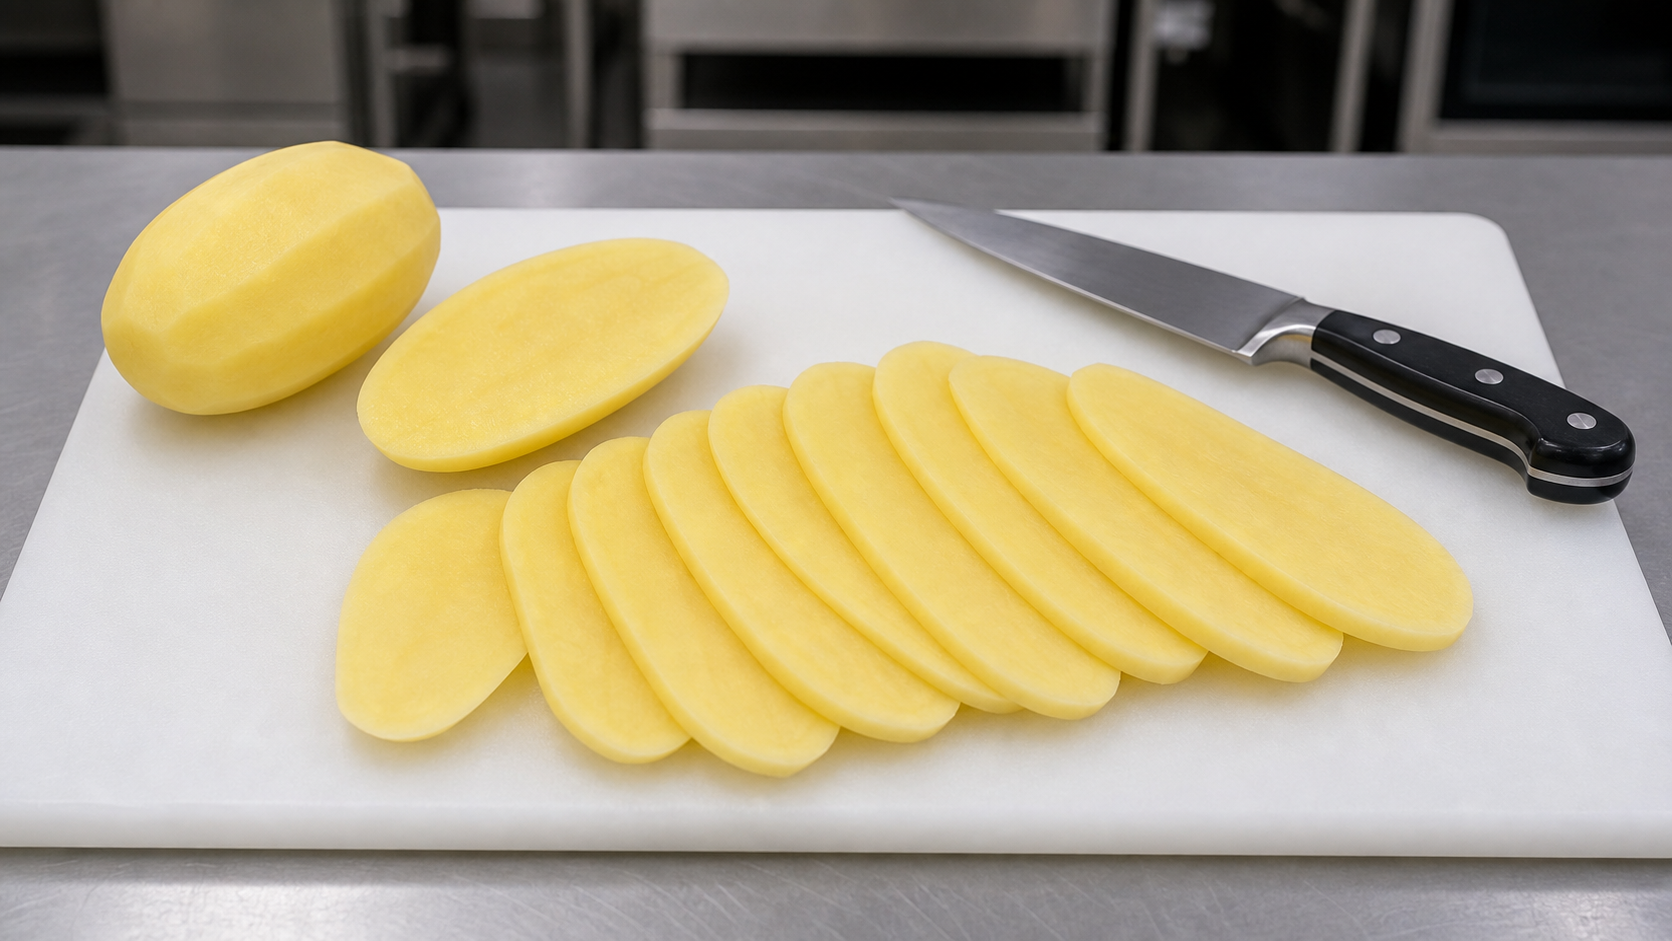
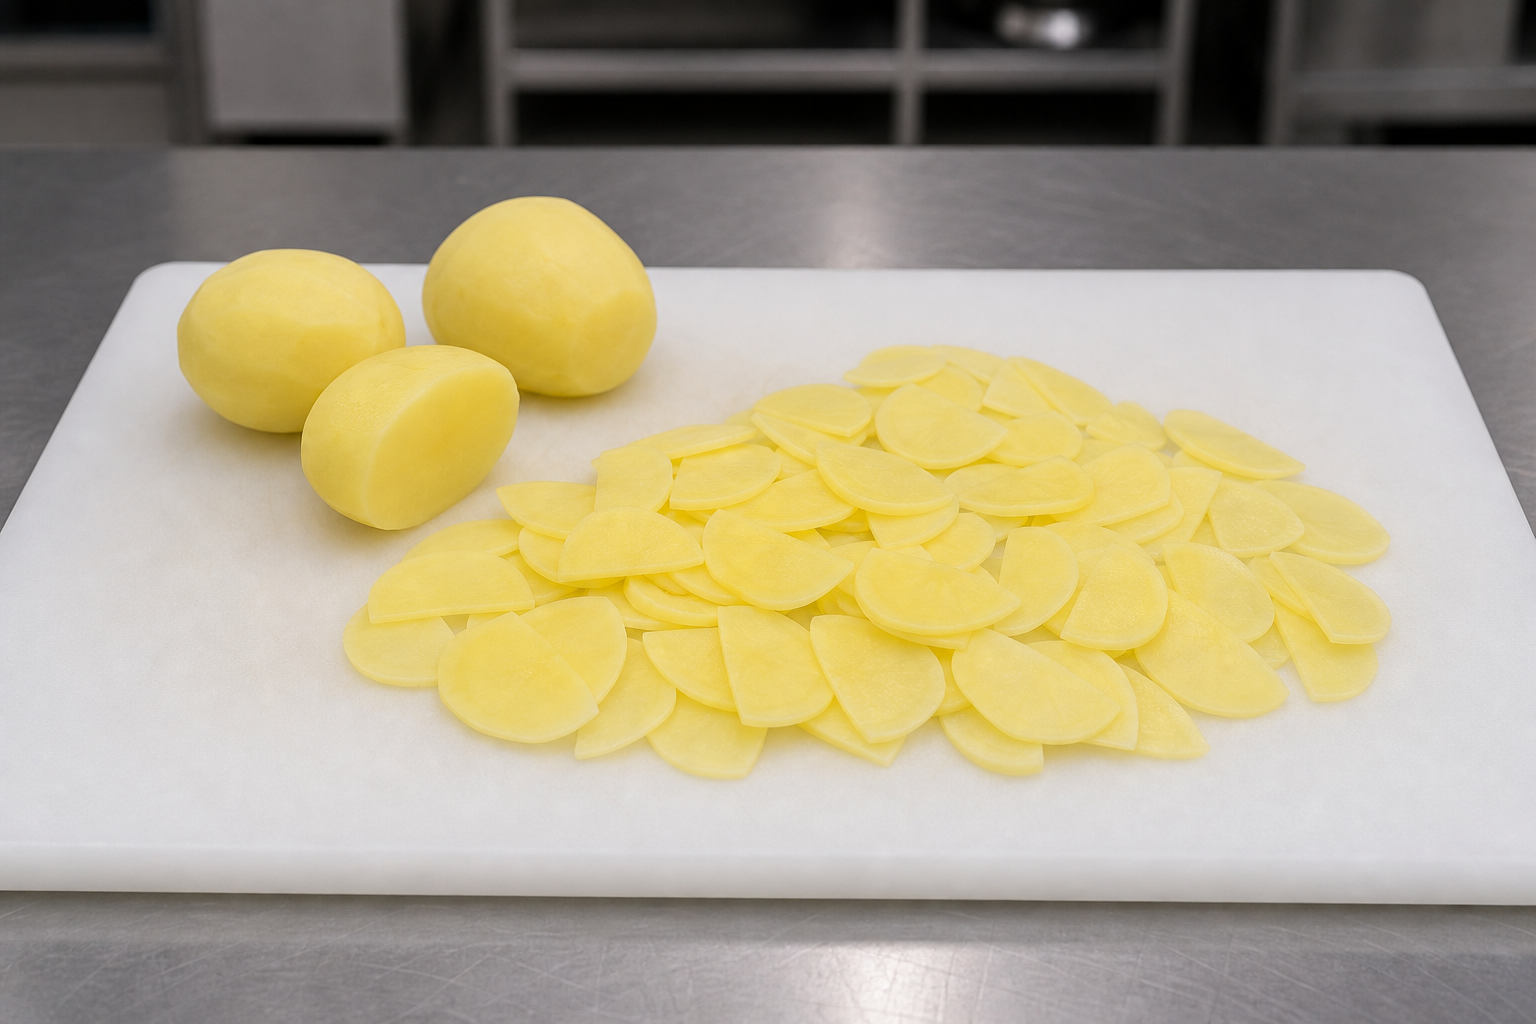
Expand PM01 cut shape visuals

diff --git a/data/exams/pm01.js b/data/exams/pm01.js
@@ -189,7 +189,13 @@ module.exports = {
       batonnet: "/assets/pm01/cuts/batonnet.png",
       wedges: "/assets/pm01/cuts/wedges.png",
       rings: "/assets/pm01/cuts/rings.png",
-      slices: "/assets/pm01/cuts/slices.png"
+      slices: "/assets/pm01/cuts/slices.png",
+      halfRings: "/assets/pm01/cuts/half-rings.png",
+      mediumCubes: "/assets/pm01/cuts/medium-cubes.png",
+      largeCubes: "/assets/pm01/cuts/large-cubes.png",
+      shashki: "/assets/pm01/cuts/shashki.png",
+      shavings: "/assets/pm01/cuts/shavings.png",
+      balls: "/assets/pm01/cuts/balls.png"
     },
     processSteps: {
       sort: "/assets/pm01/process/veg-sort.png",
@@ -317,11 +323,17 @@ module.exports = {
             ["julienne", "соломка"],
             ["batonnet", "брусочки"],
             ["brunoise", "мелкие кубики"],
+            ["mediumCubes", "средние кубики"],
+            ["largeCubes", "крупные кубики"],
             ["rondelle", "кружочки"],
             ["wedges", "дольки"],
             ["rings", "кольца"],
+            ["halfRings", "полукольца"],
             ["slices", "ломтики"],
-            ["mirepoix", "крупная нарезка"]
+            ["mirepoix", "крупная нарезка"],
+            ["shashki", "шашки"],
+            ["shavings", "стружка"],
+            ["balls", "шарики"]
           ],
           [
             [
@@ -352,6 +364,24 @@ module.exports = {
               }
             ],
             [
+              "medium",
+              "средние кубики",
+              {
+                image: "/assets/pm01/cuts/medium-cubes.png",
+                visualTitle: "Средние кубики",
+                detail: "Равные кубики среднего размера для салатов, винегретов, супов и гарниров."
+              }
+            ],
+            [
+              "large",
+              "крупные кубики",
+              {
+                image: "/assets/pm01/cuts/large-cubes.png",
+                visualTitle: "Крупные кубики",
+                detail: "Крупные одинаковые кубики для тушения, супов и блюд с длительной тепловой обработкой."
+              }
+            ],
+            [
               "round",
               "кружочки",
               {
@@ -379,12 +409,21 @@ module.exports = {
               }
             ],
             [
+              "halfRings",
+              "полукольца",
+              {
+                image: "/assets/pm01/cuts/half-rings.png",
+                visualTitle: "Полукольца",
+                detail: "Лук разрезают пополам и нарезают поперек на равные полукруглые полосы."
+              }
+            ],
+            [
               "slices",
               "ломтики",
               {
                 image: "/assets/pm01/cuts/slices.png",
                 visualTitle: "Ломтики",
-                detail: "Плоские ровные пластины одинаковой толщины для гарниров, салатов и дальнейшей обработки."
+                detail: "Тонкие плоские пластины из половинок или четвертинок клубня, не клиновидные дольки."
               }
             ],
             [
@@ -395,17 +434,50 @@ module.exports = {
                 visualTitle: "Крупная нарезка",
                 detail: "Крупные кусочки овощей для основы бульонов, тушения и ароматизации."
               }
+            ],
+            [
+              "shashki",
+              "шашки",
+              {
+                image: "/assets/pm01/cuts/shashki.png",
+                visualTitle: "Шашки",
+                detail: "Плоские квадратные или прямоугольные кусочки капусты для супов и тушения."
+              }
+            ],
+            [
+              "shavings",
+              "стружка",
+              {
+                image: "/assets/pm01/cuts/shavings.png",
+                visualTitle: "Стружка",
+                detail: "Очень тонкие гибкие ленты овоща, полученные строганием или овощечисткой."
+              }
+            ],
+            [
+              "balls",
+              "шарики",
+              {
+                image: "/assets/pm01/cuts/balls.png",
+                visualTitle: "Шарики",
+                detail: "Фигурная нарезка круглой формы, выполненная специальной выемкой."
+              }
             ]
           ],
           {
             julienne: "thin",
             batonnet: "batons",
             brunoise: "small",
+            mediumCubes: "medium",
+            largeCubes: "large",
             rondelle: "round",
             wedges: "wedges",
             rings: "rings",
+            halfRings: "halfRings",
             slices: "slices",
-            mirepoix: "rough"
+            mirepoix: "rough",
+            shashki: "shashki",
+            shavings: "shavings",
+            balls: "balls"
           },
           {
             visualMode: "cut_shapes",
@@ -561,10 +633,15 @@ module.exports = {
           [
             ["straw", "соломка"],
             ["sticks", "брусочки"],
-            ["cubes", "кубики"],
+            ["mediumCubes", "средние кубики"],
+            ["largeCubes", "крупные кубики"],
             ["wedges", "дольки"],
             ["slices", "ломтики"],
-            ["rondelle", "кружочки"]
+            ["rondelle", "кружочки"],
+            ["halfRings", "полукольца"],
+            ["shashki", "шашки"],
+            ["shavings", "стружка"],
+            ["balls", "шарики"]
           ],
           [
             [
@@ -589,9 +666,18 @@ module.exports = {
               "salad",
               "салаты, винегреты, начинки",
               {
-                image: "/assets/pm01/cuts/brunoise.png",
-                visualTitle: "Кубики",
-                detail: "Равномерные кубики для салатов, винегретов, начинок и холодных блюд."
+                image: "/assets/pm01/cuts/medium-cubes.png",
+                visualTitle: "Средние кубики",
+                detail: "Равномерные кубики среднего размера для салатов, винегретов, супов и гарниров."
+              }
+            ],
+            [
+              "stewCubes",
+              "тушение и супы с длительной обработкой",
+              {
+                image: "/assets/pm01/cuts/large-cubes.png",
+                visualTitle: "Крупные кубики",
+                detail: "Крупные кубики держат форму при тушении и длительной тепловой обработке."
               }
             ],
             [
@@ -609,7 +695,7 @@ module.exports = {
               {
                 image: "/assets/pm01/cuts/slices.png",
                 visualTitle: "Ломтики",
-                detail: "Плоские ровные пластины для гарниров, салатов и дальнейшей обработки."
+                detail: "Тонкие плоские пластины из половинок или четвертинок овоща, не клиновидные дольки."
               }
             ],
             [
@@ -620,9 +706,57 @@ module.exports = {
                 visualTitle: "Кружочки",
                 detail: "Поперечные круглые ломтики моркови, кабачка, огурца и других овощей."
               }
+            ],
+            [
+              "onion",
+              "пассерование лука и соусы",
+              {
+                image: "/assets/pm01/cuts/half-rings.png",
+                visualTitle: "Полукольца",
+                detail: "Полукольца лука удобны для пассерования, соусов, гарниров и холодных блюд."
+              }
+            ],
+            [
+              "cabbage",
+              "капустные супы и тушение",
+              {
+                image: "/assets/pm01/cuts/shashki.png",
+                visualTitle: "Шашки",
+                detail: "Квадратные кусочки капусты используют для щей, борщей, тушения и гарниров."
+              }
+            ],
+            [
+              "decor",
+              "украшение и тонкая подача",
+              {
+                image: "/assets/pm01/cuts/shavings.png",
+                visualTitle: "Стружка",
+                detail: "Тонкие овощные ленты используют для оформления, салатов и быстрой тепловой обработки."
+              }
+            ],
+            [
+              "ballsDecor",
+              "фигурные гарниры и оформление",
+              {
+                image: "/assets/pm01/cuts/balls.png",
+                visualTitle: "Шарики",
+                detail: "Шарики получают выемкой и используют для фигурных гарниров и оформления."
+              }
             ]
           ],
-          { straw: "fry", sticks: "soup", cubes: "salad", wedges: "bake", slices: "serve", rondelle: "stew" },
+          {
+            straw: "fry",
+            sticks: "soup",
+            mediumCubes: "salad",
+            largeCubes: "stewCubes",
+            wedges: "bake",
+            slices: "serve",
+            rondelle: "stew",
+            halfRings: "onion",
+            shashki: "cabbage",
+            shavings: "decor",
+            balls: "ballsDecor"
+          },
           {
             maxScore: 6,
             visualMode: "cut_shapes",

diff --git a/tests/pm01-engine.test.js b/tests/pm01-engine.test.js
@@ -1,5 +1,7 @@
 const test = require("node:test");
 const assert = require("node:assert/strict");
+const fs = require("node:fs");
+const path = require("node:path");
 
 const {
   getPm01Exam,
@@ -49,14 +51,43 @@ test("PM01 public data exposes asset registry without visual answer keys", () =>
   const variant = buildPm01Variant(exam, "vegetables");
   const visualBucket = variant.questions.find((item) => item.visualMode === "cut_shapes");
   const publicQuestion = sanitizePm01Question(visualBucket, { answers: {} });
+  const visualSimulation = variant.questions.find((item) => item.id.startsWith("veg-sim-cuts"));
+  const publicSimulation = sanitizePm01Question(visualSimulation, { answers: {} });
+  const requiredCutShapes = [
+    "julienne",
+    "brunoise",
+    "rondelle",
+    "mirepoix",
+    "batonnet",
+    "wedges",
+    "rings",
+    "slices",
+    "halfRings",
+    "mediumCubes",
+    "largeCubes",
+    "shashki",
+    "shavings",
+    "balls"
+  ];
 
   assert.equal(publicData.assetRegistry.workshops.vegetables.includes("vegetable-workshop.png"), true);
   assert.equal(publicData.assetRegistry.cutShapes.batonnet.endsWith("batonnet.png"), true);
+  assert.equal(publicData.assetRegistry.cutShapes.slices.endsWith("slices.png"), true);
+  assert.equal(requiredCutShapes.every((key) => publicData.assetRegistry.cutShapes[key]), true);
+  requiredCutShapes.forEach((key) => {
+    const assetPath = path.join(__dirname, "..", "public", publicData.assetRegistry.cutShapes[key].replace(/^\//, ""));
+    assert.equal(fs.existsSync(assetPath), true, `${key} asset exists`);
+  });
   assert.equal(publicData.assetRegistry.violationScenes.vegetables.endsWith("vegetable.png"), true);
+  assert.equal(publicQuestion.items.length, 14);
+  assert.equal(publicQuestion.buckets.length, 14);
   assert.equal(publicQuestion.buckets.every((bucket) => bucket.image), true);
   assert.equal(publicQuestion.buckets.some((bucket) => bucket.image.endsWith(".svg")), false);
+  assert.equal(publicSimulation.items.length, 11);
+  assert.equal(publicSimulation.buckets.length, 11);
   assert.equal("correctBuckets" in publicQuestion, false);
   assert.equal("correctAnswer" in publicQuestion, false);
+  assert.equal("correctBuckets" in publicSimulation, false);
 });
 
 test("PM01 vegetable sequence steps use visual process cards without answer keys", () => {

diff --git a/public/pm01.html b/public/pm01.html
@@ -6,7 +6,7 @@
     <meta name="theme-color" content="#123f35" />
     <title>Интерактивный экзамен ПМ.01</title>
     <link rel="icon" href="/icons/icon-192.png" sizes="192x192" />
-    <link rel="stylesheet" href="/pm01.css?v=1.0.1" />
+    <link rel="stylesheet" href="/pm01.css?v=1.0.2" />
   </head>
   <body>
     <header class="pm01-topbar">
@@ -163,6 +163,6 @@
       </section>
     </main>
 
-    <script src="/pm01.js?v=1.0.1"></script>
+    <script src="/pm01.js?v=1.0.2"></script>
   </body>
 </html>

diff --git a/public/pm01.css b/public/pm01.css
@@ -916,13 +916,13 @@ button.module-step:focus-visible {
 
 .cut-target-grid {
   display: grid;
-  grid-template-columns: repeat(2, minmax(0, 1fr));
+  grid-template-columns: repeat(auto-fit, minmax(210px, 1fr));
   gap: 12px;
 }
 
 .cut-target {
   display: grid;
-  grid-template-rows: 170px auto minmax(54px, auto);
+  grid-template-rows: 150px auto minmax(54px, auto);
   gap: 10px;
   padding: 10px;
   border: 1px solid var(--line);

diff --git a/public/pm01.js b/public/pm01.js
@@ -646,7 +646,7 @@
       const image = document.createElement("img");
       image.src = bucket.image || state.attempt.selectedVariant.image;
       image.alt = bucket.visualTitle || bucket.label;
-      image.loading = "lazy";
+      image.loading = "eager";
       image.decoding = "async";
       imageWrap.appendChild(image);
 
